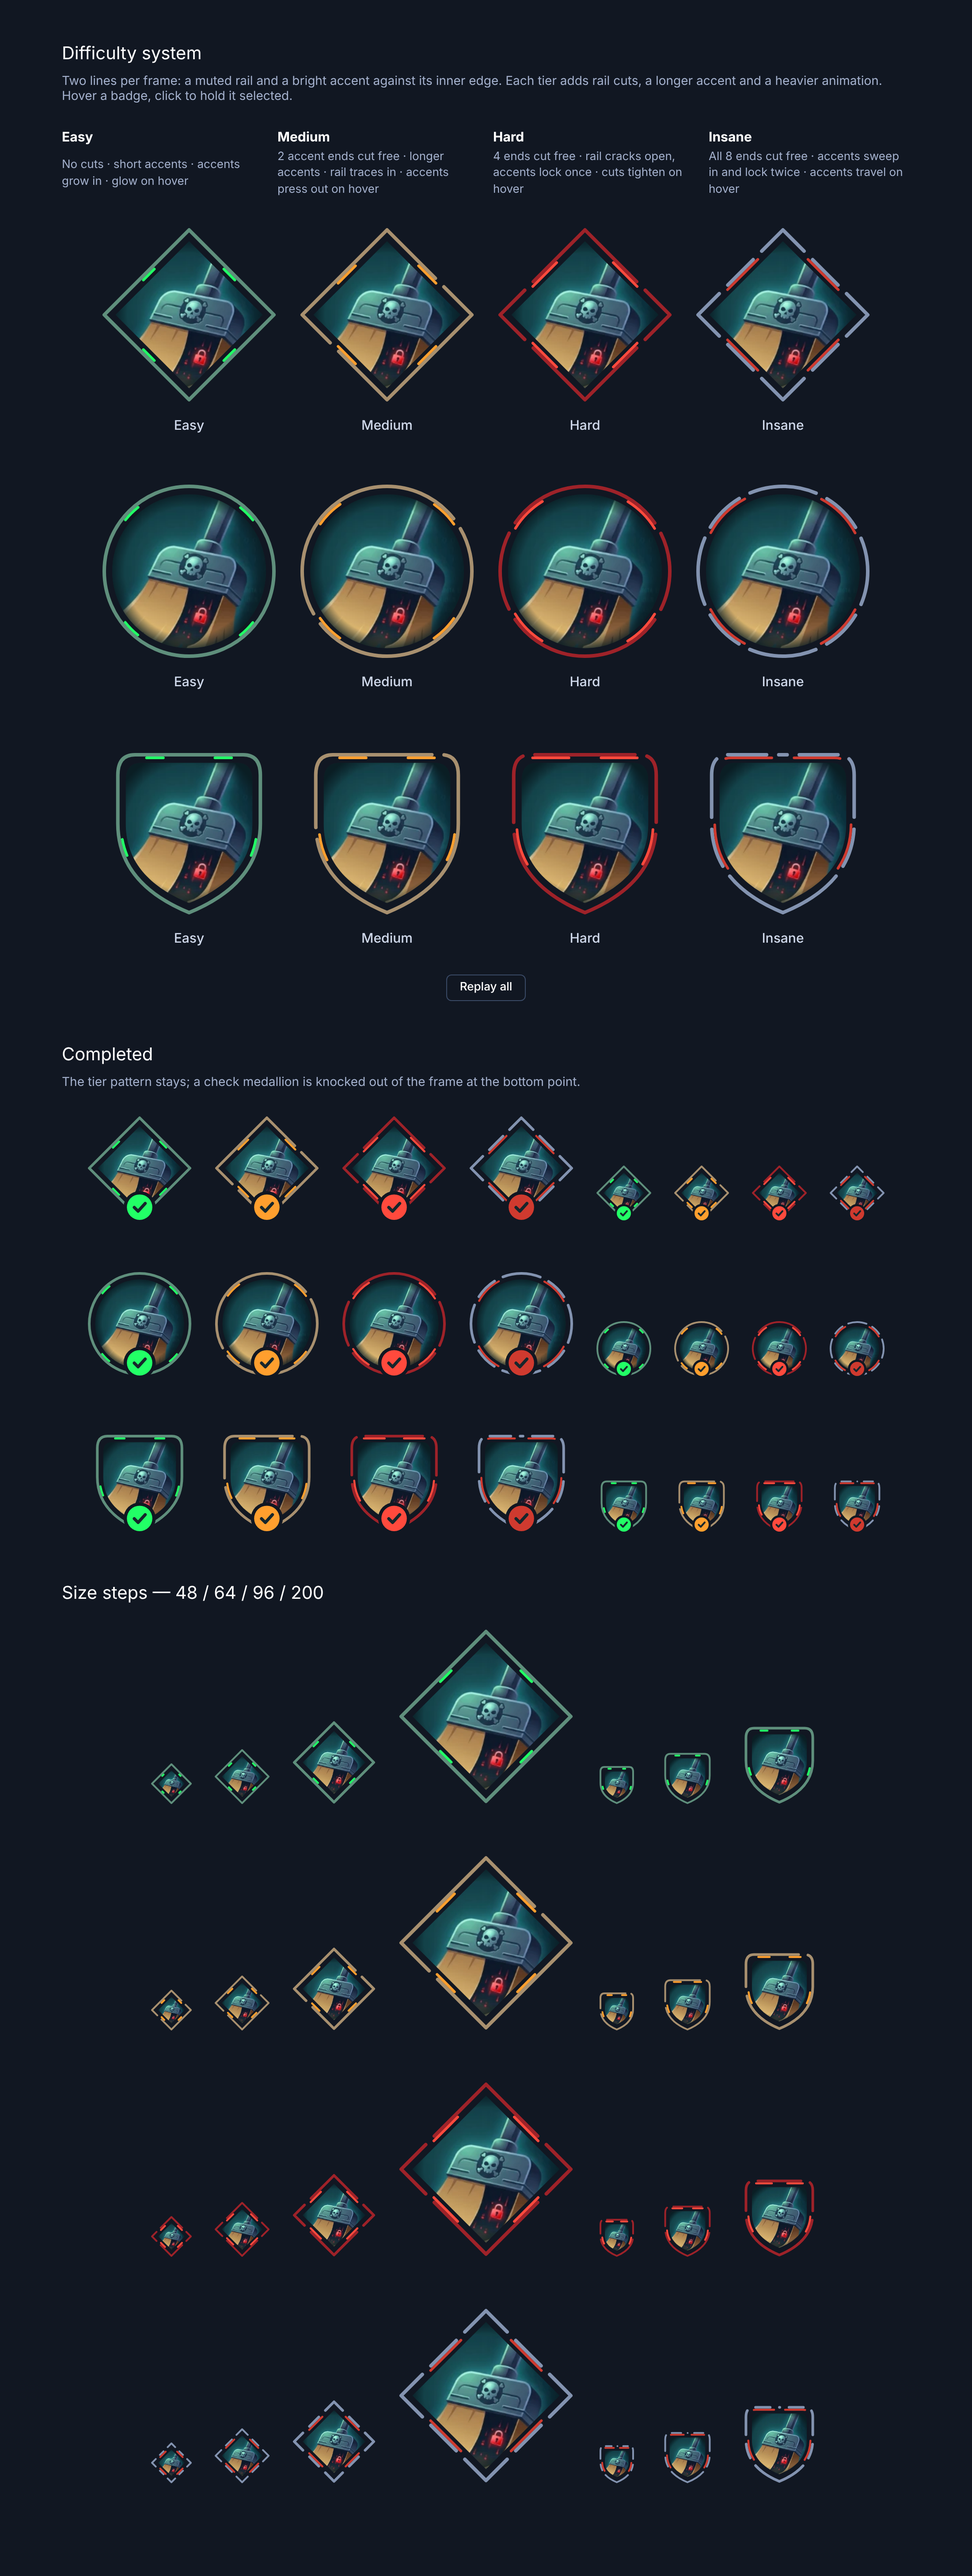
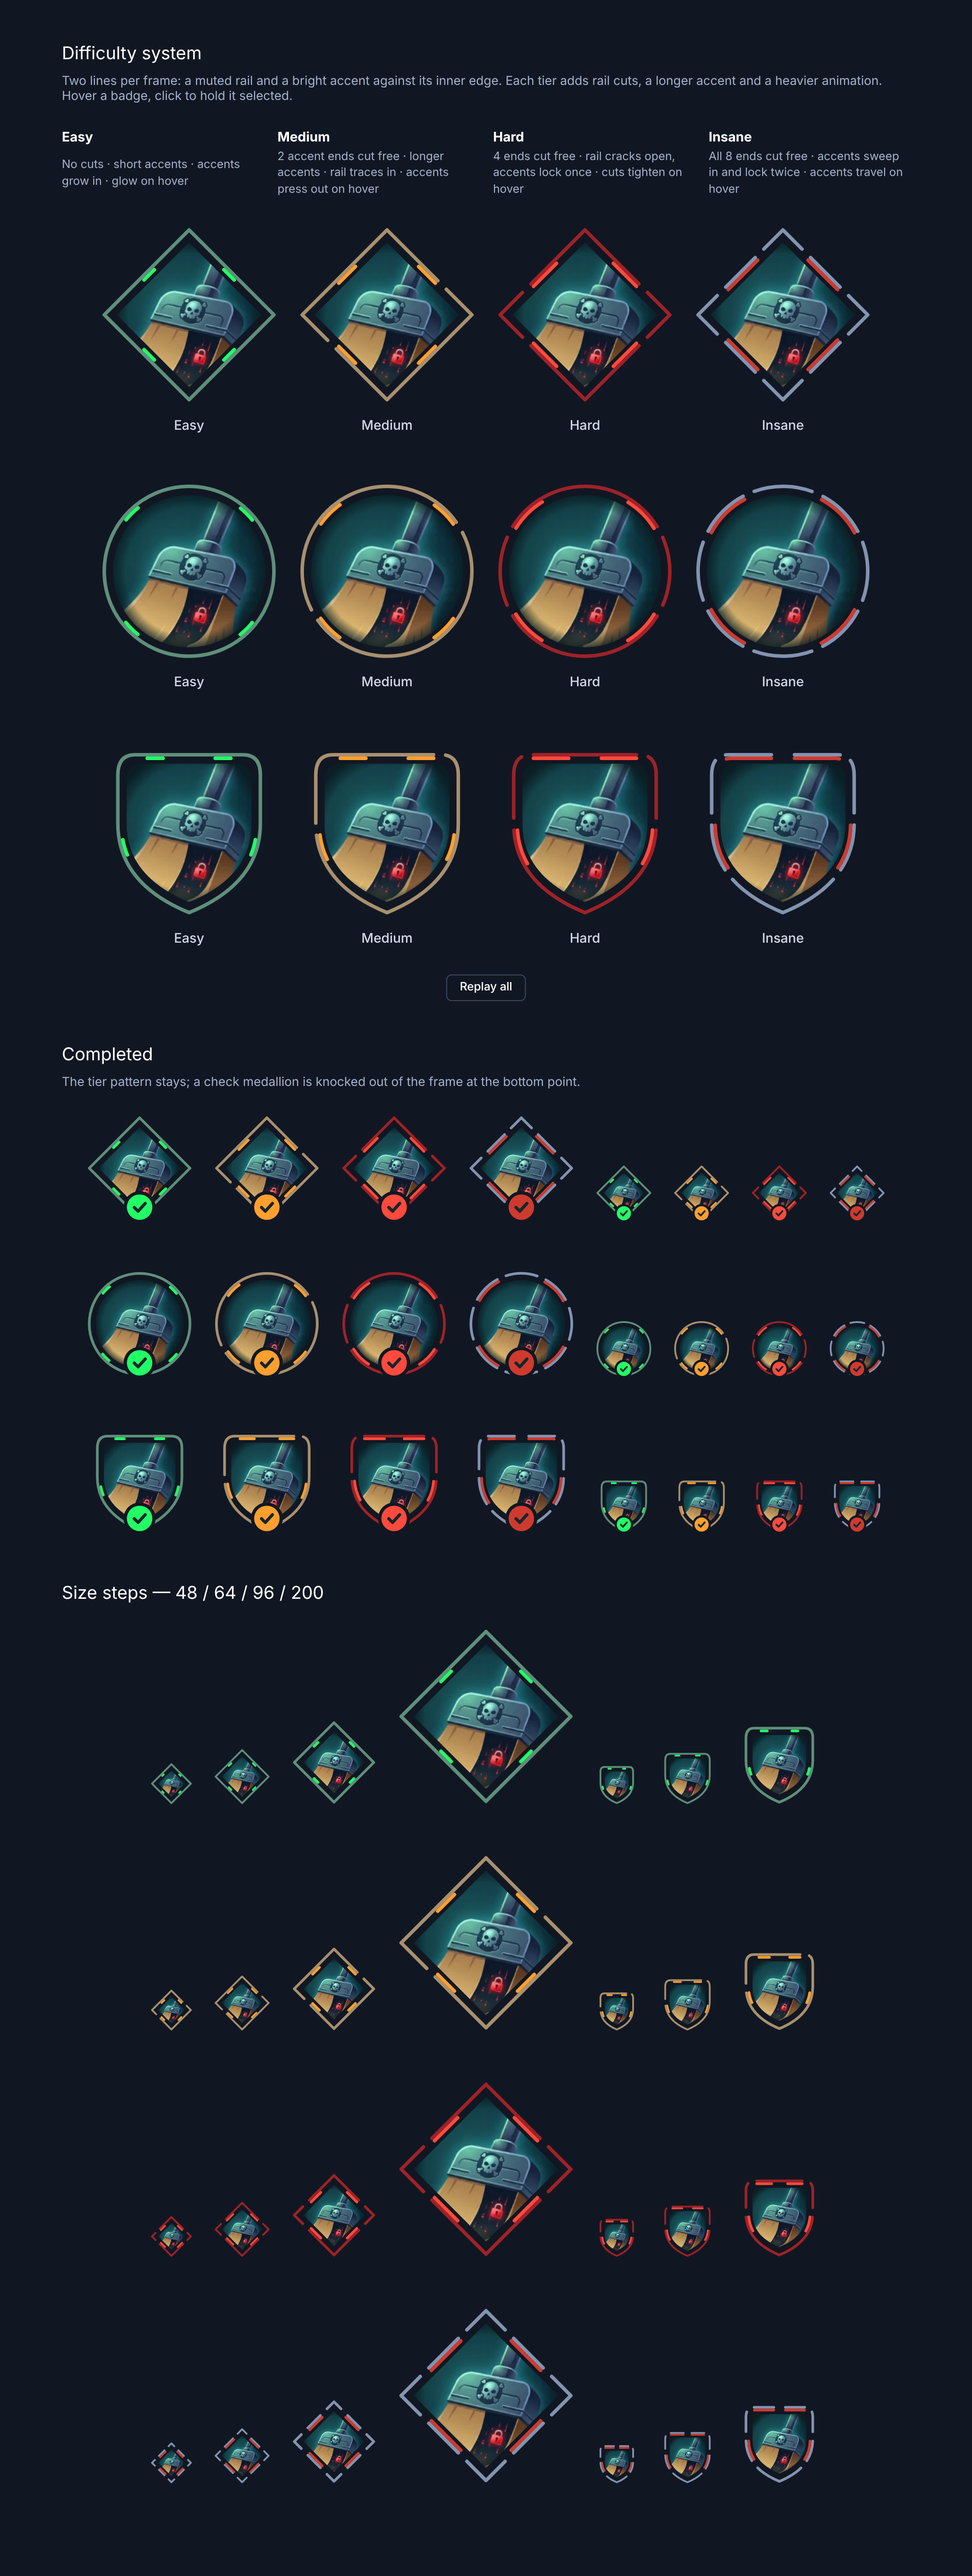
Difficulty frame: equal line weights, cuts start square to accent ends, no rail stubs
Claude-Session: https://claude.ai/code/session_011nxYfuYnhHf6ffMbWhu3mX

Changed region(s): [[0.34, 0.9372, 0.3709, 0.9684]]

diff --git a/components/difficulty-frame/difficulty-frame.js b/components/difficulty-frame/difficulty-frame.js
@@ -55,7 +55,6 @@
   // Which accent ends get cut, as [side, end] with end 0 = before the side's
   // centre and 1 = after it. Pairs stay point-symmetric as they're added.
   const CUT_ORDER = [[0, 1], [2, 1], [1, 0], [3, 0], [0, 0], [2, 0], [1, 1], [3, 1]];
-  const ACCENT_WIDTH = 0.75;   // accent thickness (× stroke), never under 2px
   const ART_CLEAR = 1;         // dark ring between accent and art (× stroke)
 
   // Each outline is drawn in a -1..1 box and starts on its first side midpoint,
@@ -159,19 +158,62 @@
     return FRACTIONS.get(key);
   };
 
+  // Rail length at the point closest to `pt`, searched within ±window of `around`.
+  const nearestLength = (path, pt, around, window, total) => {
+    let best = around;
+    let bestD = Infinity;
+    for (let i = -60; i <= 60; i += 1) {
+      const len = (around + (window * i) / 60 + total) % total;
+      const q = path.getPointAtLength(len);
+      const d = (q.x - pt.x) ** 2 + (q.y - pt.y) ** 2;
+      if (d < bestD) { bestD = d; best = len; }
+    }
+    return best;
+  };
+
+  // For each side, the rail positions [before, after] that sit square to the accent's
+  // two ends. Shares of the outline, cached per shape + tier + inset like the sides.
+  const ENDS = new Map();
+  const railEnds = (key, rail, accent, aSides, aLen, total, aTotal) => {
+    if (!ENDS.has(key)) {
+      const centre = aSides.map((a) => nearestLength(rail, accent.getPointAtLength(a), (a / aTotal) * total, total / 8, total));
+      ENDS.set(key, aSides.map((a, i) => [-1, 1].map((dir) => {
+        const tip = accent.getPointAtLength((a + (dir * aLen) / 2 + aTotal) % aTotal);
+        return nearestLength(rail, tip, centre[i] + (dir * aLen) / 2, aLen / 2, total) / total;
+      })));
+    }
+    return ENDS.get(key).map((pair) => pair.map((f) => f * total));
+  };
+
   // Round caps reach stroke/2 past each dash end, so every pattern below allows
   // for `cap` (= stroke width) to keep visible gaps and dashes at their exact size.
   // Each returns { dash, offset } for a stroke-dasharray / stroke-dashoffset pair.
 
   // A visible `gap` centred on every point in `centres` (sorted ascending).
+  // A rail stub shorter than 2.5 line widths left between two cuts reads as a
+  // stray dot, so it is folded into the cuts around it.
   const gapsAt = (centres, total, gap, cap) => {
     if (!centres.length) return { dash: 'none', offset: 0 };
     const pts = [...centres, centres[0] + total];
+    const runs = centres.map((p, i) => pts[i + 1] - p - gap - cap);
     const array = [];
-    // Start on the run after the first cut. The list stays even-length: an odd one
-    // repeats with dashes and gaps swapped, which shows up as cuts in the wrong place.
-    for (let i = 0; i < centres.length; i += 1) array.push(Math.max(pts[i + 1] - pts[i] - gap - cap, 0.01), gap + cap);
-    return { dash: array.join(' '), offset: -(centres[0] + (gap + cap) / 2) };
+    let pending = gap + cap;
+    // Start on the first run that survives, so the list begins with a dash.
+    const first = runs.findIndex((r) => r >= cap * 2.5);
+    if (first < 0) return { dash: 'none', offset: 0 };
+    for (let k = 1; k <= runs.length; k += 1) {
+      const i = (first + k) % runs.length;
+      if (k === 1) array.push(runs[first]);
+      if (runs[i] >= cap * 2.5 || k === runs.length) {
+        array.push(pending);
+        if (k < runs.length) array.push(runs[i]);
+        pending = gap + cap;
+      } else {
+        pending += runs[i] + gap + cap;
+      }
+    }
+    // Even-length list: an odd one repeats with dashes and gaps swapped.
+    return { dash: array.join(' '), offset: -(centres[first] + (gap + cap) / 2) };
   };
 
   // A visible `dash` centred on every point in `centres`.
@@ -222,7 +264,7 @@
       const step = [...STEPS].reverse().find((s) => size >= s.min);
       const stroke = Number(this.getAttribute('stroke')) || cssNumber(this, '--htb-frame-stroke') || step.stroke;
       const gap = step.gap * (stroke / step.stroke);
-      const accentW = Math.max(stroke * ACCENT_WIDTH, 2);
+      const accentW = stroke; // both lines share one weight
       const completed = this.hasAttribute('completed');
       const src = this.getAttribute('src') || '';
       const name = `${level[0].toUpperCase()}${level.slice(1)} difficulty`;
@@ -294,12 +336,15 @@
       // Rail cuts always sit at the ends of an accent, so each cut frees an accent
       // end from the rail. Difficulty sets how many ends are cut, opening in
       // symmetric pairs: medium 2, hard 4, insane all 8.
-      const half = (aLen * total) / aTotal / 2;
+      // Each accent end is projected straight across onto the rail (its closest
+      // point); the cut starts exactly there and runs away from the accent.
+      const ends = railEnds(`${shapeName}|${level}|${(accentR / r).toFixed(3)}`, railPath, accentPath, aSides, aLen, total, aTotal);
+      const cutsFor = (g) => CUT_ORDER.slice(0, tier.cuts)
+        .map(([side, end]) => (ends[side][end] + (end ? g / 2 : -g / 2) + total) % total)
+        .sort((x, y) => x - y);
       const cutGap = gap * 0.75;
-      const cuts = CUT_ORDER.slice(0, tier.cuts)
-        .map(([side, end]) => (sides[side] + (end ? half : -half) + total) % total)
-        .sort((a, b) => a - b);
-      setDash(railPath, gapsAt(cuts, total, cutGap, stroke), gapsAt(cuts, total, cutGap * 0.5, stroke));
+      const cuts = cutsFor(cutGap);
+      setDash(railPath, gapsAt(cuts, total, cutGap, stroke), gapsAt(cutsFor(cutGap * 0.5), total, cutGap * 0.5, stroke));
 
       this.fx = { railPath, accentPath, total, aTotal, aSides, aLen, cuts, stroke, accentW, level };
       if (animate) queueMicrotask(() => this.play());
